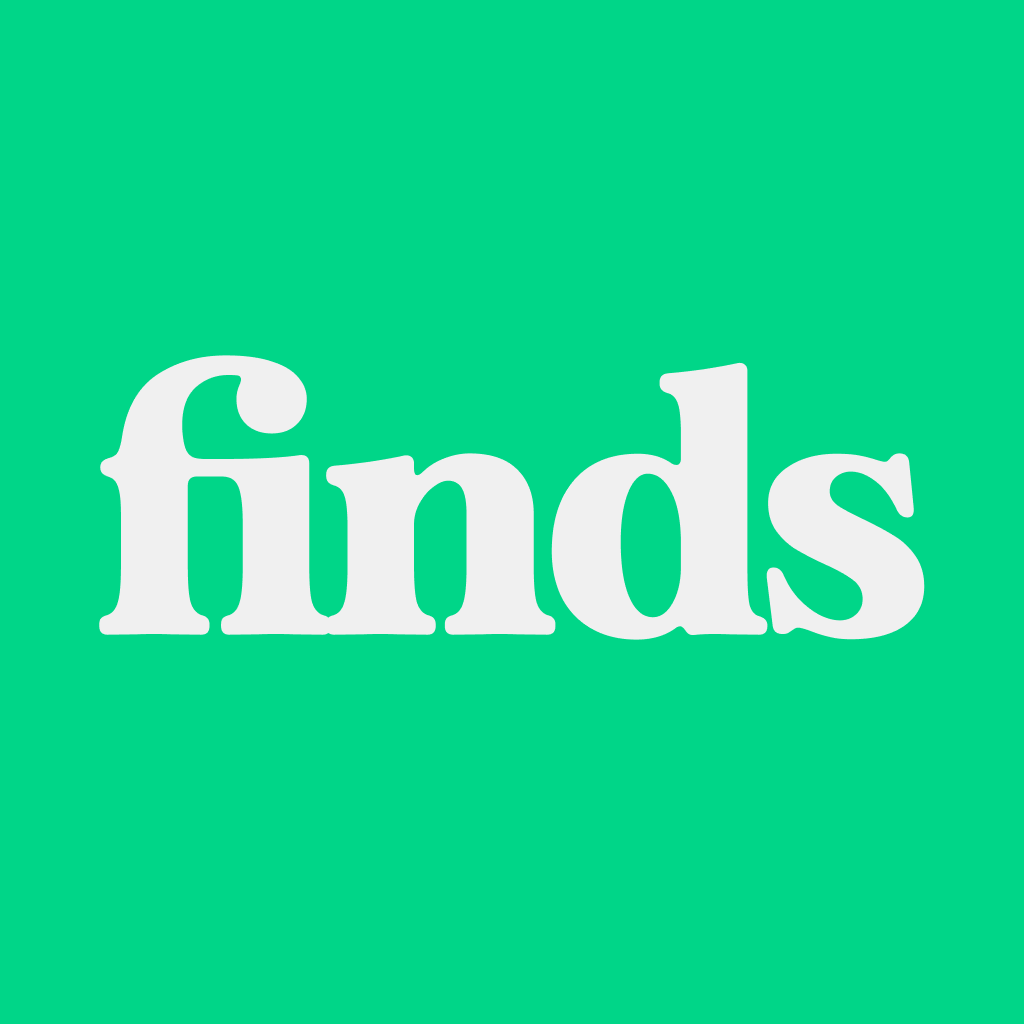
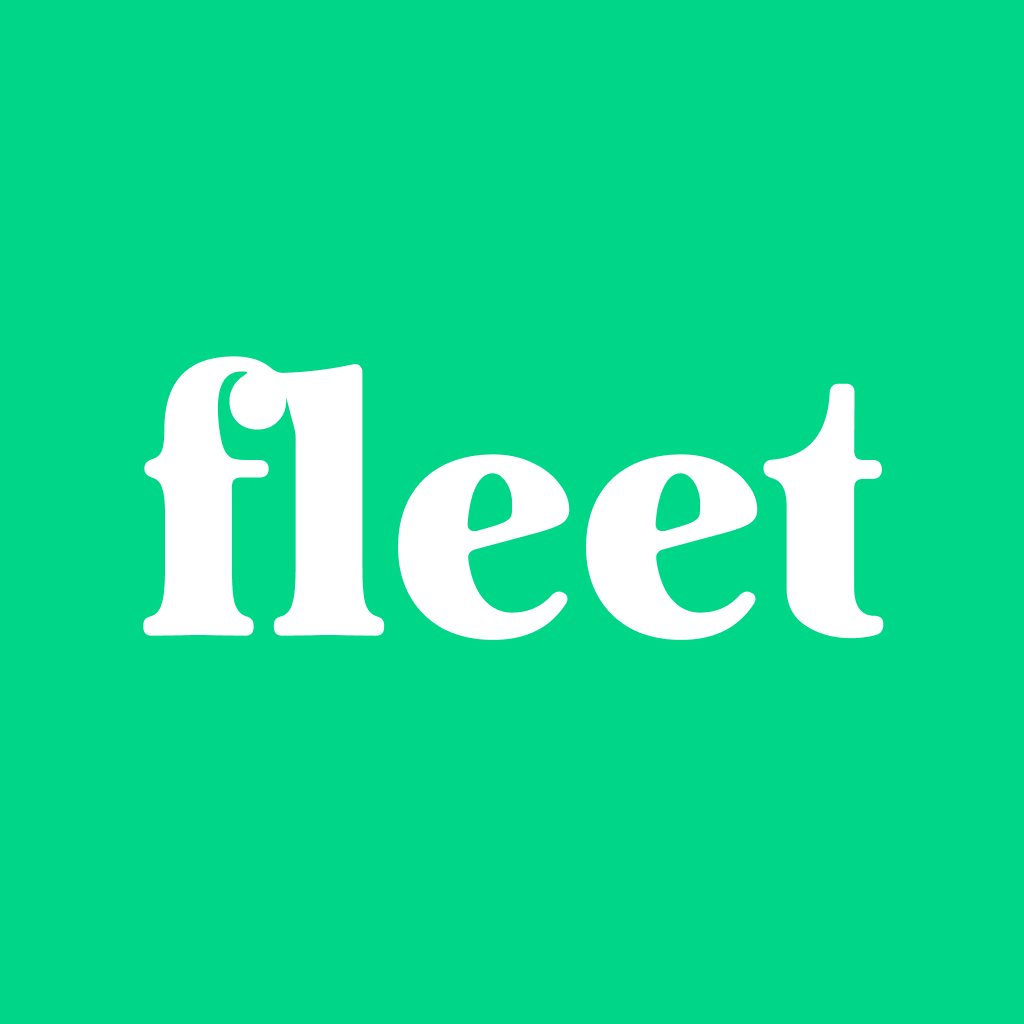
Changed name to fleet

Changed region(s): [[0.0938, 0.3438, 0.9062, 0.625]]

diff --git a/app/(modals)/login.tsx b/app/(modals)/login.tsx
@@ -66,7 +66,7 @@ const Login = () => {
                             },
                         ]}
                     >
-                        pocket garage
+                        fleet
                     </Text>
 
                     <AppleAuthentication.AppleAuthenticationButton
